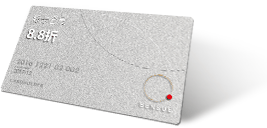
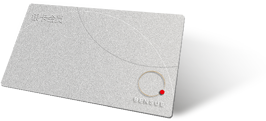
校园卡上线

diff --git a/js/pages/order/vmodel-order.js b/js/pages/order/vmodel-order.js
@@ -28,6 +28,7 @@ var vmOrder = avalon.define({
         }]
     },
     needAmount: 0, //总价
+    minFee: 9999, //订单中最便宜房间的房费，供免费入住抵扣
     selectedList: [],
     orids: [], //订单包含的房间业务流水编号
     selectPayType: function(type) {
@@ -90,6 +91,7 @@ var vmOrder = avalon.define({
     },
     fund: 0, //基金优惠金额
     fundIndex: -1,
+    fundType: 0, //1现金优惠券 2免费入住券
     fundList: [],
     getFund: function() {
         //获取用户可用基金
@@ -102,10 +104,18 @@ var vmOrder = avalon.define({
             }
         });
     },
-    selectFund: function(index) {
+    selectFund: function(index, type) {
+        vmOrder.fundType = type;
+
         if (vmOrder.fundIndex !== index) {
-            vmOrder.fund = vmOrder.fundList[index].money;
             vmOrder.fundIndex = index;
+
+            if(type == 1) {
+                vmOrder.fund = vmOrder.fundList[index].money;
+            } else if(type == 2) {
+                //type == 2 免费入住券抵扣房价最低的房间房费
+                vmOrder.fund = vmOrder.minFee;
+            }
         } else {
             vmOrder.fund = 0;
             vmOrder.fundIndex = -1;
@@ -293,6 +303,7 @@ function iniOrder() {
         data: { id: orderid },
         successCallback: function(json) {
             if (json.status === 1) {
+                var orderRoom;
                 vmOrder.data = json.data;
 
                 if (json.data.fid > 0) {
@@ -309,22 +320,23 @@ function iniOrder() {
                 vmOrder.mayCheckoutRoomList = [];
 
                 for (var i = 0; i < json.data.orderRoomList.length; i++) {
+                    orderRoom = json.data.orderRoomList[i];
                     vmOrder.selectedList.push(i);
-                    if(json.data.orderRoomList[i].status == 2) {
+                    if(orderRoom.status == 2) {
                         //可以退订房间列表
                         showCancelBtn ++;
                         vmOrder.mayCancelRoomList.push({
-                            id: json.data.orderRoomList[i].id,
-                            name: json.data.orderRoomList[i].name
+                            id: orderRoom.id,
+                            name: orderRoom.name
                         });
                     }
 
-                    if(json.data.orderRoomList[i].status == 3) {
+                    if(orderRoom.status == 3) {
                         //可以退房房间列表
                         showCheckoutBtn ++;
                         vmOrder.mayCheckoutRoomList.push({
-                            id: json.data.orderRoomList[i].id,
-                            name: json.data.orderRoomList[i].name
+                            id: orderRoom.id,
+                            name: orderRoom.name
                         });
                     }
                 }
@@ -577,6 +589,8 @@ function callWcpay() {
 }
 
 vmOrder.$watch('selectedList.length', function(a) {
+    var minFee = 0, orderRoom;
+    vmOrder.minFee = 9999; //重新计算最低房费
     vmOrder.needAmount = 0;
     vmOrder.orids = [];
 
@@ -589,5 +603,25 @@ vmOrder.$watch('selectedList.length', function(a) {
 
         //记录要支付房间的业务流水号
         vmOrder.orids.push(vmOrder.data.orderRoomList[index].id);
+
+        orderRoom = vmOrder.data.orderRoomList[index];
+        //找到最低的房费
+        if(vmOrder.data.isPartTime == 0) {
+            minFee = orderRoom.amount/orderRoom.timeCount;
+        } else if(vmOrder.data.isPartTime == 1) {
+            minFee = orderRoom.amount;
+        }
+
+        if(vmOrder.minFee > minFee) {
+            vmOrder.minFee = minFee;
+
+            if(vmOrder.fundType == 2) {
+                vmOrder.fund = minFee;
+            }
+        }
     })
+
+    if(a == 0) {
+        vmOrder.fund = 0;
+    }
 })

diff --git a/js/pages/order/order.html b/js/pages/order/order.html
@@ -109,7 +109,7 @@ input[type=checkbox] {
                     <!-- 操作按钮 -->
                     <button class="bs-text-small" type="button" ms-on-tap="orderRoomAction(el.id, el.status)" ms-if="el.status>=3&&el.status<=4&&!el.isComment" style="float: left;margin: 0px;margin-top: 12px;">{{showActionText(el.status)}}</button>
                     <!-- 房间价格 -->
-                    <span class="bs-text-large bs-text-red" style="float: right; margin: 20px 15px 0 0;">¥{{el.actualAmount}}</</span>
+                    <span class="bs-text-large bs-text-black" style="float: right; margin: 20px 15px 0 0;">¥{{el.amount}}</</span>
                 </h5>
                 <span style="clear: both;">&nbsp;</span>
             </li>
@@ -121,8 +121,10 @@ input[type=checkbox] {
         <div class="order-panel" ms-if="data.status==1&&fundList.$model.length>0">
             <div class="order-panel-title bs-text-large bs-text-153">优惠券</div>
             <div class="order-fundList">
-                <div class="order-fund bs-text-normal bs-text-gold" ms-click="selectFund($index)" ms-repeat="fundList" ms-class="selected: $index == fundIndex" ms-if-loop="el.isValid">
-                    ¥<span class="bs-text-x-large">{{el.money}}</span>
+                <div class="order-fund bs-text-normal bs-text-gold" ms-click="selectFund($index, el.type)" ms-repeat="fundList" ms-class="selected: $index == fundIndex" ms-if-loop="el.isValid">
+                    <div ms-if="el.type==1">¥<span class="bs-text-x-large">{{el.money}}</span>
+                    </div>
+                    <div ms-if="el.type==2" style="width: 68px;margin: 9px auto;line-height: 17px;white-space: normal;">{{el.remarks}}</div>
                 </div>
             </div>
         </div>
@@ -142,11 +144,11 @@ input[type=checkbox] {
             </div>
 
             <!-- 支付时的优惠金额显示 -->
-            <div style="clear: both;" ms-if="fund>0">
+            <div style="clear: both;" ms-if="fund>0&&fund<9999">
                 <span class="info-left">优惠券</span>
                 <span class="info-right bs-text-black" style="text-align: right;">-¥{{fund}}</span>
             </div>
-            <div style="clear: both;" ms-if="discount<1">
+            <div style="clear: both;" ms-if="(discount<1)&&(needAmount-fund>0)">
                 <span class="info-left">{{discountCard}}{{discount*10}}折</span>
                 <span class="info-right bs-text-black">
                 -¥{{round((needAmount-fund)*(1-discount))}}</span>
@@ -166,7 +168,7 @@ input[type=checkbox] {
                 <span class="info-left">实付金额</span>
                 <span class="info-right bs-text-red">
                 ¥<!-- {{round(needAmount-fund)<0?0:round(needAmount-fund)}} -->
-                {{data.paidAmount?data.paidAmount:(round(needAmount-fund)<0?0:round((needAmount-fund)*discount))}}
+                {{data.status!=1?data.paidAmount:(round(needAmount-fund)<0?0:round((needAmount-fund)*discount))}}
                 </span>
             </div>
             <div>&nbsp;</div>

diff --git a/js/pages/invite/vip-invite.html b/js/pages/invite/vip-invite.html
@@ -17,11 +17,13 @@
             邀请好友成为本宿VIP会员，您将获得：
         </div>
         <div class="bs-text-large" style="margin: 30px 0 50px 0;line-height: 28px;">
-            好友成为校园卡会员，您将获得一张<span class="bs-text-red">免费入住券</span>
+            好友成为黑卡会员，您将获得<span class="bs-text-red" style="display:inline-block;width: 37px;font-size: 18px;text-align: center;">{{bAward}}</span>元
+            <br>
+            好友成为金卡会员，您将获得<span class="bs-text-red" style="display:inline-block;width: 37px;font-size: 18px;text-align: center;">{{gAward}}</span>元
             <br>
             好友成为银卡会员，您将获得<span class="bs-text-red" style="display:inline-block;width: 37px;font-size: 18px;text-align: center;">{{sAward}}</span>元
-            <br>好友成为金卡会员，您将获得<span class="bs-text-red" style="display:inline-block;width: 37px;font-size: 18px;text-align: center;">{{gAward}}</span>元
-            <br>好友成为黑卡会员，您将获得<span class="bs-text-red" style="display:inline-block;width: 37px;font-size: 18px;text-align: center;">{{bAward}}</span>元
+            <br>
+            好友成为校园卡会员，您将获得一张<span class="bs-text-red">免费入住体验券</span>
         </div>
     </div>
     <div ms-click="maskToggle" class="bs-bg-black bs-text-white" style="font-size: 18px;position: fixed;bottom: 0;line-height: 40px;width: 100%;text-align: center;">邀请好友</div>

diff --git a/js/pages/card/buy.js b/js/pages/card/buy.js
@@ -18,12 +18,9 @@ var vmCardBuy = avalon.define({
     $id: 'cardBuy',
     data: {
         imgUrl: '',
-        discountUrl: '',
-        awardUrl: '',
-        promoteUrl: ''
     },
     getType: function() {
-        return 'img/card/No' + vmCardBuy.cardType + '.png';
+        return 'img/card/No' + vmCardBuy.data.type + '.png';
     },
     getData: function() {
         if(!isweixin) {
@@ -35,11 +32,8 @@ var vmCardBuy = avalon.define({
             data: { id: cardID },
             successCallback: function(json) {
                 if (json.status === 1) {
-                    json.data.imgUrl = 'img/card/No' + cardID + '.png';
-                    json.data.discountUrl = 'img/card/No' + cardID + '_discount.png';
-                    json.data.awardUrl = 'img/card/No' + cardID + '_award.png';
-                    json.data.promoteUrl = 'img/card/No' + cardID + '_promote.png';
-        
+                    json.data.imgUrl = 'img/card/No' + json.data.type + '.png';
+
                     vmCardBuy.data = json.data;
                 }
             }
@@ -151,6 +145,9 @@ switch(cardID) {
     case 3:
         $('.card-font').css('color', 'white');
         break;
+    case 6:
+        $('.card-font').css('color', '#eee');
+        break;
 }
 
 var cardWidth, cardHeight;
@@ -162,6 +159,7 @@ avalon.ready(function() {
 
     $('.card-font').css('left', cardWidth * 0.05 + 'px');
     $('.card-font').css('top', cardHeight * 0.64 + 'px');
+    $('.card-discount').css('top', '-' + cardHeight * 0.32 + 'px');
 });
 
 /**

diff --git a/js/pages/promotion/detail.js b/js/pages/promotion/detail.js
@@ -35,7 +35,8 @@ var vmDetail = avalon.define({
                         }
 
                         for (var i = 0; i < json.data.length; i++) {
-                            if (json.data[i].name.indexOf('普通') == -1) {
+                            //VIP卡才显示开通提示
+                            if (json.data[i].userBuyCard.type < 4) {
                                 vmDetail.isNormal = false;
                                 vmDetail.circleGolden = i;
                             }
@@ -51,13 +52,6 @@ var vmDetail = avalon.define({
 
                         vmDetail.list = json.data;
                         vmDetail.a++;
-
-                        /**
-                         * canvas画圆形
-                         */
-
-                        //底部灰色圆
-
                     }
                 }
             }
@@ -132,6 +126,7 @@ var vmDetail = avalon.define({
             vmDetail.animation(prData.index);
         }
         vmDetail.$model.list.map(function(ob) {
+            console.log(ob);
             var canvasIni = vmDetail.canvasIni(ob);
             if (canvasIni) {
                 vmDetail.drawCircle(canvasIni.context, "grey", -4); //先画第一个灰

diff --git a/js/pages/wallet/coupon.html b/js/pages/wallet/coupon.html
@@ -44,6 +44,7 @@
         padding: 14px 0;
         position: fixed;
         bottom: 0;
+        z-index: 10;
     }
     
     /*箭头*/ 
@@ -63,8 +64,9 @@
     <div style="height: 0;">&nbsp;</div>
     <div class="item" ms-repeat="fundList">
         <div class="left bs-text-white">
-            
-            <span><sub>￥</sub>{{el.money}}</span>
+            <span ms-if="el.type==1"><sub>￥</sub>{{el.money}}</span>
+            <!-- 免费体验券不显示金额，显示备注 -->
+            <div ms-if="el.type==2" style="width: 80px;margin: 0 auto;">{{el.remarks}}</div>
         </div>
         <div class="right bs-bg-white">
             <div class="bs-text-smaller">
@@ -75,7 +77,7 @@
         </div>
     </div>
 
-    <div class="bs-text-gold" style="padding:5px;text-align:center;font-size: 14px;width: 100%;background-color: #efeff4;">
+    <div class="bs-text-gold" style="padding:5px;text-align:center;font-size: 14px;width: 100%;background-color: #efeff4;margin-bottom: 50px;">
         <a id="rulePop" class="bs-text-gold" ms-click="openRule" style="display: block;">使用说明</a>
     </div>
 

diff --git a/js/pages/card/show.html b/js/pages/card/show.html
@@ -43,7 +43,8 @@
             </div>
         </div>
 
-        <div class="bs-text-normal">欢迎您加入本宿大家庭，成为我们尊贵的VIP用户，在这里您不仅能享受到全新的住宿体验、VIP级客户服务，亦能通过帮助我们推广获得丰厚的收入！</div>
+        <div class="bs-text-normal" :visible="@cardType<4">欢迎您加入本宿大家庭，成为我们尊贵的VIP用户，在这里您不仅能享受到全新的住宿体验、VIP级客户服务，亦能通过帮助我们推广获得丰厚的收入！</div>
+        <div class="bs-text-normal" :visible="@cardType==5">欢迎您加入本宿大家庭，成为我们尊贵的校园卡用户，在这里您能享受到全新的住宿体验，以及VIP级的客户服务！</div>
         <br>
         <div class="bs-text-normal">{{@data.name}}会员专属微信客服：木一君（微信客服：bensuer007），为了保障能及时提供服务，建议您尽快添加好友；
         <br>

diff --git a/js/pages/promotion/detail.html b/js/pages/promotion/detail.html
@@ -34,7 +34,14 @@
                     <div>
                         <div class="bs-text-larger bs-text-gold bs-text-bolder">推广内容</div>
                         <div class="promotion-detail-content">
-                            每月转发<span class="bs-text-gold">{{el.monthShareTimes}}次</span>以上本宿相关内容到自己的朋友圈，内容可以采用本宿提供的，也可以自己创作编辑。
+                            每月转发
+                            <span :if="!@isNormal">
+                                <span class="bs-text-gold">{{el.monthShareTimes}}次</span>以上
+                            </span>
+                            <span class="bs-text-gold" :if="@isNormal">
+                                4次
+                            </span>
+                            本宿提供的内容到自己的朋友圈。
                         </div>
                     </div>
                     <div :if="!@isNormal">

diff --git a/js/config.js b/js/config.js
@@ -445,12 +445,12 @@ function loadSessionPartTime() {
 //获取入住时间
 function getStartTime(type) {
     if (type) {
-        if (newOrder.partTime.start) {
+        // if (newOrder.partTime.start) {
             var today = new Date();
             return today.getFullYear() + "-" + ((today.getMonth() + 1) < 10 ? ('0' + (today.getMonth() + 1)) : (today.getMonth() + 1)) + "-" + today.getDate() + " " + vmPart.partTimeStart;
-        } else {
-            return '';
-        }
+        // } else {
+        //     return '';
+        // }
     } else {
         return getDate(vmCalendar.startIndex);
     }

diff --git a/js/pages/user/my.js b/js/pages/user/my.js
@@ -207,7 +207,7 @@ var vmSide = avalon.define({
                     if (json.data.userBuyCardList && json.data.userBuyCardList.length) {
                         var cList = json.data.userBuyCardList;
                         for (var i = 0; i < cList.length; i++) {
-                            if (cList[i].type < 4) {
+                            if (cList[i].type != 4) {
                                 vmSide.cardList[i].id = cList[i].id;
                                 vmSide.cardList[i].img = '../img/card/card_No' + cList[i].type + '.svg';
                             }

diff --git a/js/pages/order/payend.html b/js/pages/order/payend.html
@@ -27,7 +27,7 @@
                 <br>
                 <span style=" margin-top: 8px;" ms-repeat-cl="el.orderCustomerList">{{cl.name}}&nbsp;</span>
                 <br>
-                <span class="bs-text-large bs-text-red" style="float: right; margin: 20px 15px 0 0;">¥{{el.actualAmount}}</</span>
+                <span class="bs-text-large bs-text-black" style="float: right; margin: 20px 15px 0 0;">¥{{el.amount}}</</span>
             </h5>
             <span style="clear: both;">&nbsp;</span>
         </li>

diff --git a/js/pages/card/list.js b/js/pages/card/list.js
@@ -11,7 +11,7 @@ var vmCardList = avalon.define({
                 if (json.status === 1) {
                     vmCardList.data = [];
                     json.data.map(function(c) {
-                        c.imgUrl = 'img/card/card_list_No' + c.id + '.png';
+                        c.imgUrl = 'img/card/card_list_No' + c.type + '.png';
 
                         vmCardList.data.push(c);
                     });
